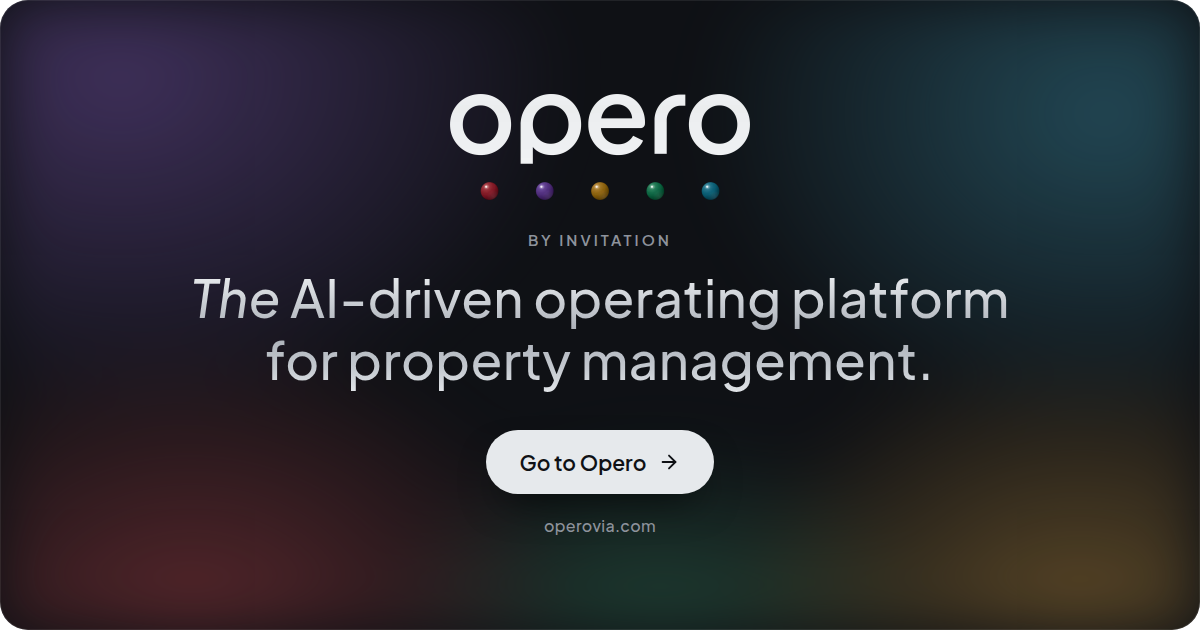
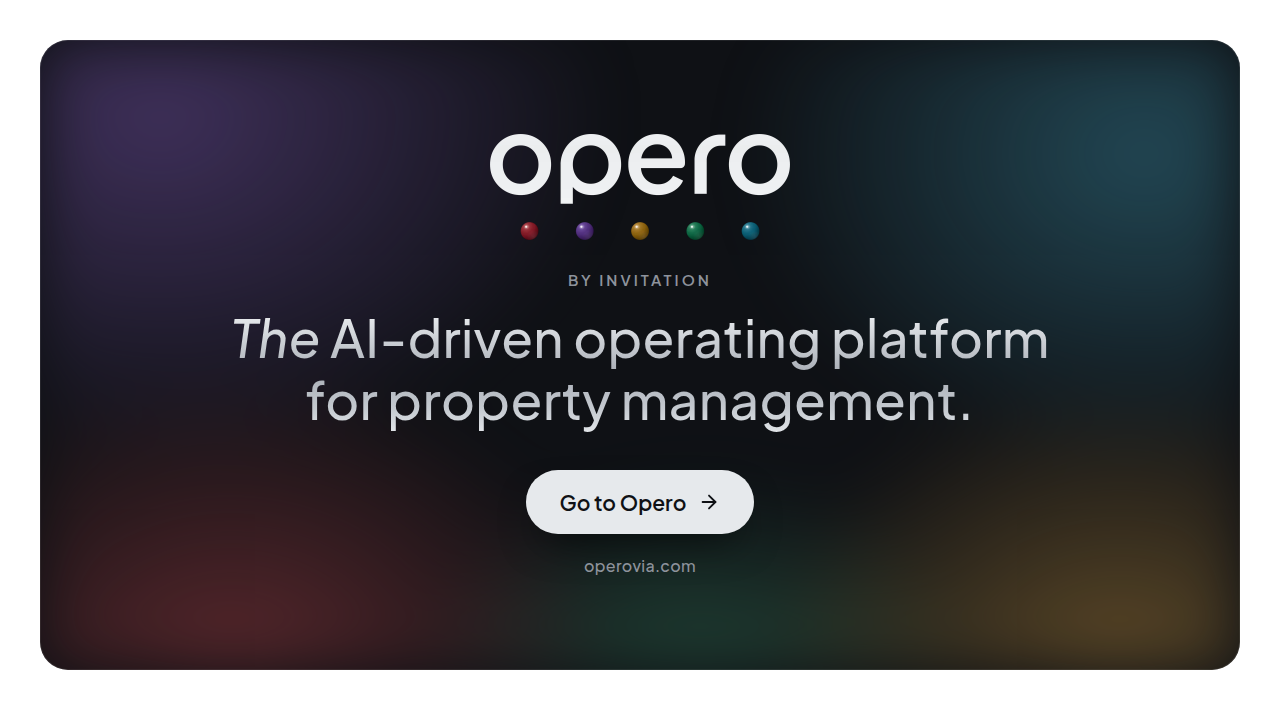
Email graphic: the card on white, so it blends into a white email
The owner asked for the space around the invitation card to be white,
keeping its rounded corners, so the picture blends into the email it is
pasted into. The card now sits on white with 40px all round (1280 x 710
in all) and nothing is see-through, which also keeps email clients that
show transparent areas dark from drawing black corners.

Claude-Session: https://claude.ai/code/session_01KhePUvyDoGx9BAF1YUfzN2

diff --git a/scripts/email-art/invite.html b/scripts/email-art/invite.html
@@ -2,13 +2,15 @@
 <html lang="en">
 <head><meta charset="utf-8"><title>Opero invitation</title>
 <style>
-/* The invitation graphic for emails: 1200 x 630, shown at 600 wide, so sharp on high-density screens. Colors are literal
+/* The invitation graphic for emails: a 1200 x 630 card on white, 40px all round (1280 x 710), so it sits in a white email
+   with its rounded corners and nothing see-through; shown at about 640 wide, so sharp on high-density screens. Colors are literal
    copies of the website's dark tokens (src/theme/tokens.ts); the words are the site's own (the door's eyebrow, the home
    page's headline, the door's button for a guest already in). Rendered by render.mjs beside this file. */
 @font-face { font-family: 'Plus Jakarta Sans'; src: url('/src/theme/fonts/PlusJakartaSans-Variable.woff2') format('woff2'); font-weight: 200 800; font-style: normal; }
 @font-face { font-family: 'Plus Jakarta Sans'; src: url('/src/theme/fonts/PlusJakartaSans-Italic-Variable-Latin.woff2') format('woff2'); font-weight: 200 800; font-style: italic; }
 * { box-sizing: border-box; }
-html, body { margin: 0; width: 1200px; height: 630px; background: transparent; }
+html, body { margin: 0; width: 1280px; height: 710px; background: #FFFFFF; }
+body { padding: 40px; }
 .card { position: relative; width: 1200px; height: 630px; border-radius: 28px; overflow: hidden; background: #0F1115; font-family: 'Plus Jakarta Sans', sans-serif; -webkit-font-smoothing: antialiased; display: flex; flex-direction: column; align-items: center; justify-content: center; text-align: center; }
 /* The aurora: the five jewels' base colors, soft and low, as on the site's hero. */
 .aurora { position: absolute; inset: 0; opacity: 0.5; background:

diff --git a/scripts/email-art/README.md b/scripts/email-art/README.md
@@ -1,7 +1,8 @@
 # The email invitation graphic
 
-`invite.html` is a 1200 x 630 card for the top of an email: the Opero logo, By invitation, the home page's headline, a
-Go to Opero button and operovia.com, on the dark canvas with the jewels' aurora. Its colors are literal copies of the
+`invite.html` is a 1200 x 630 card for an email, with rounded corners, on white with 40px all round (1280 x 710 in all, nothing
+see-through), so it blends into a white email: the Opero logo, By invitation, the home page's headline, a Go to Opero
+button and operovia.com, on the dark canvas with the jewels' aurora. Its colors are literal copies of the
 site's dark tokens and its words are the site's own, so nothing on it is new copy.
 
 `node scripts/email-art/render.mjs` renders it to `public/email/opero-invite.png` (set `CHROME_PATH` to a Chromium if
